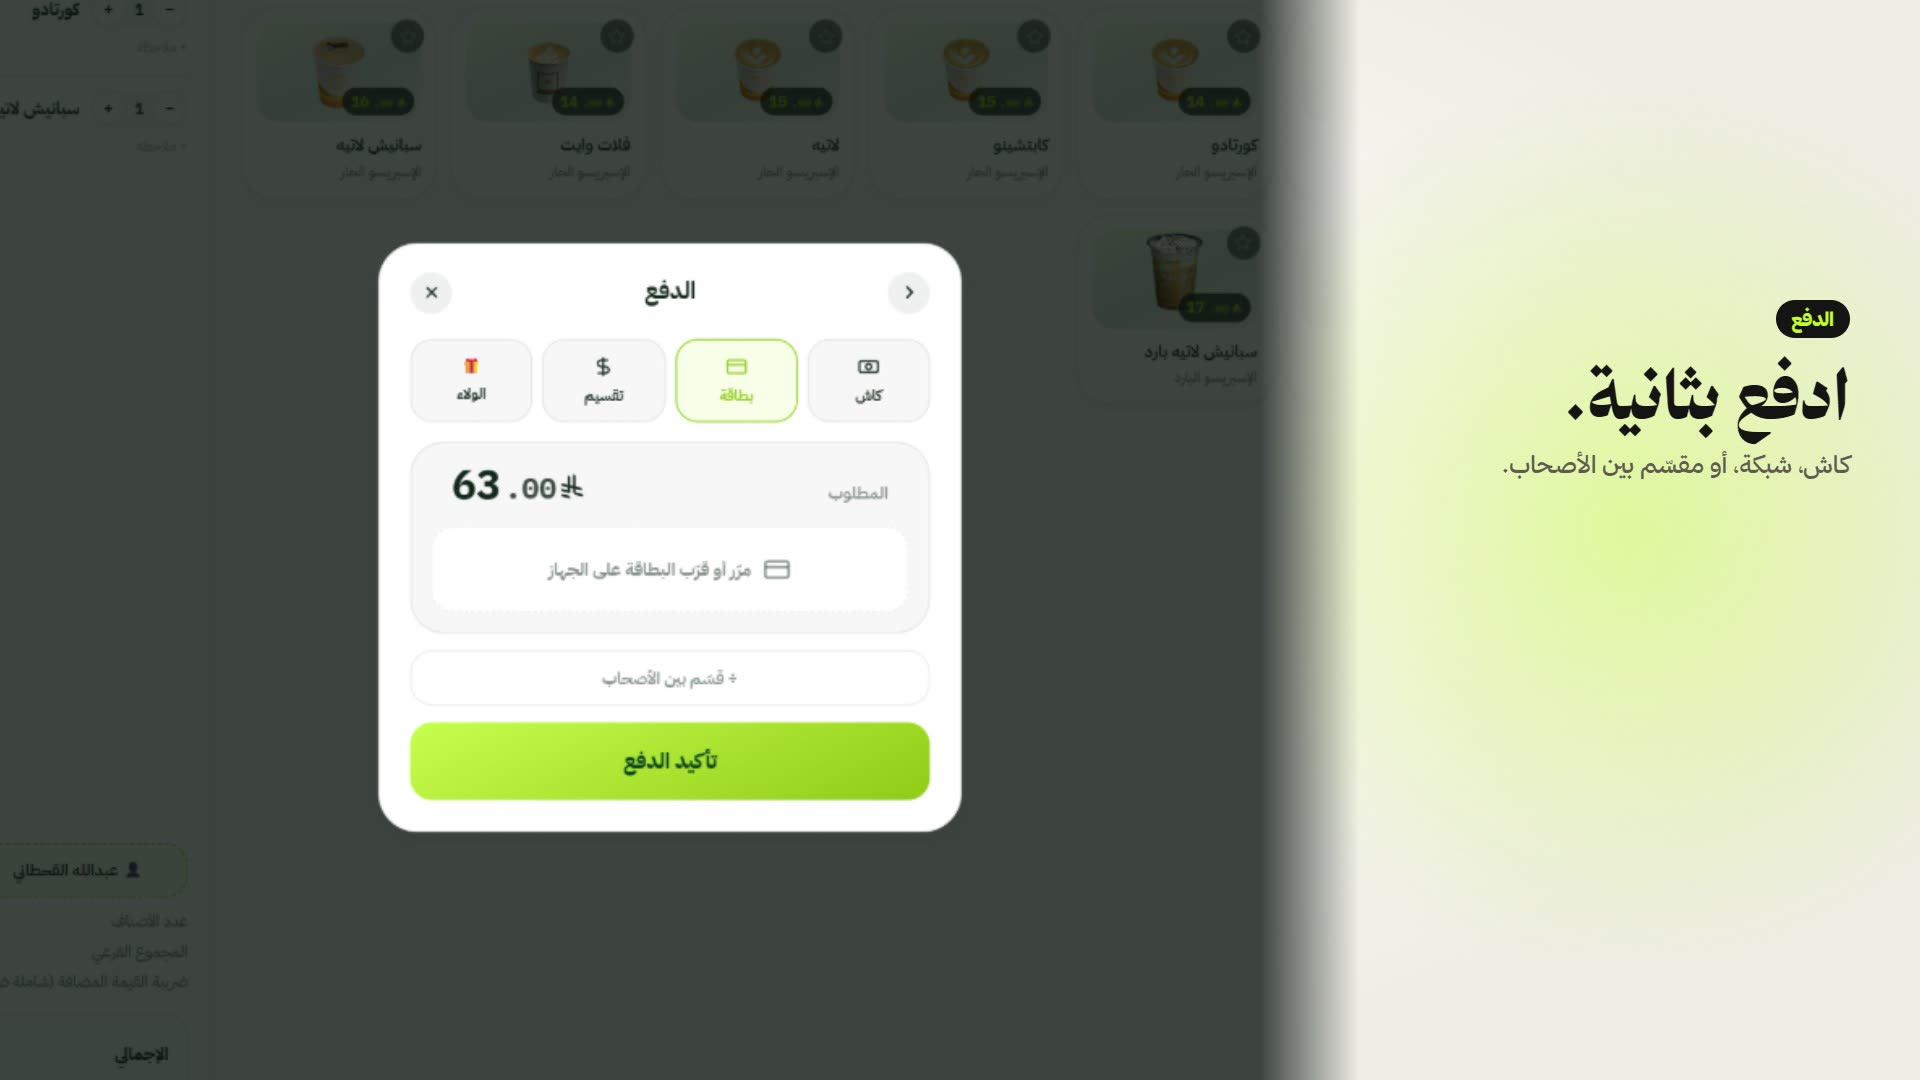
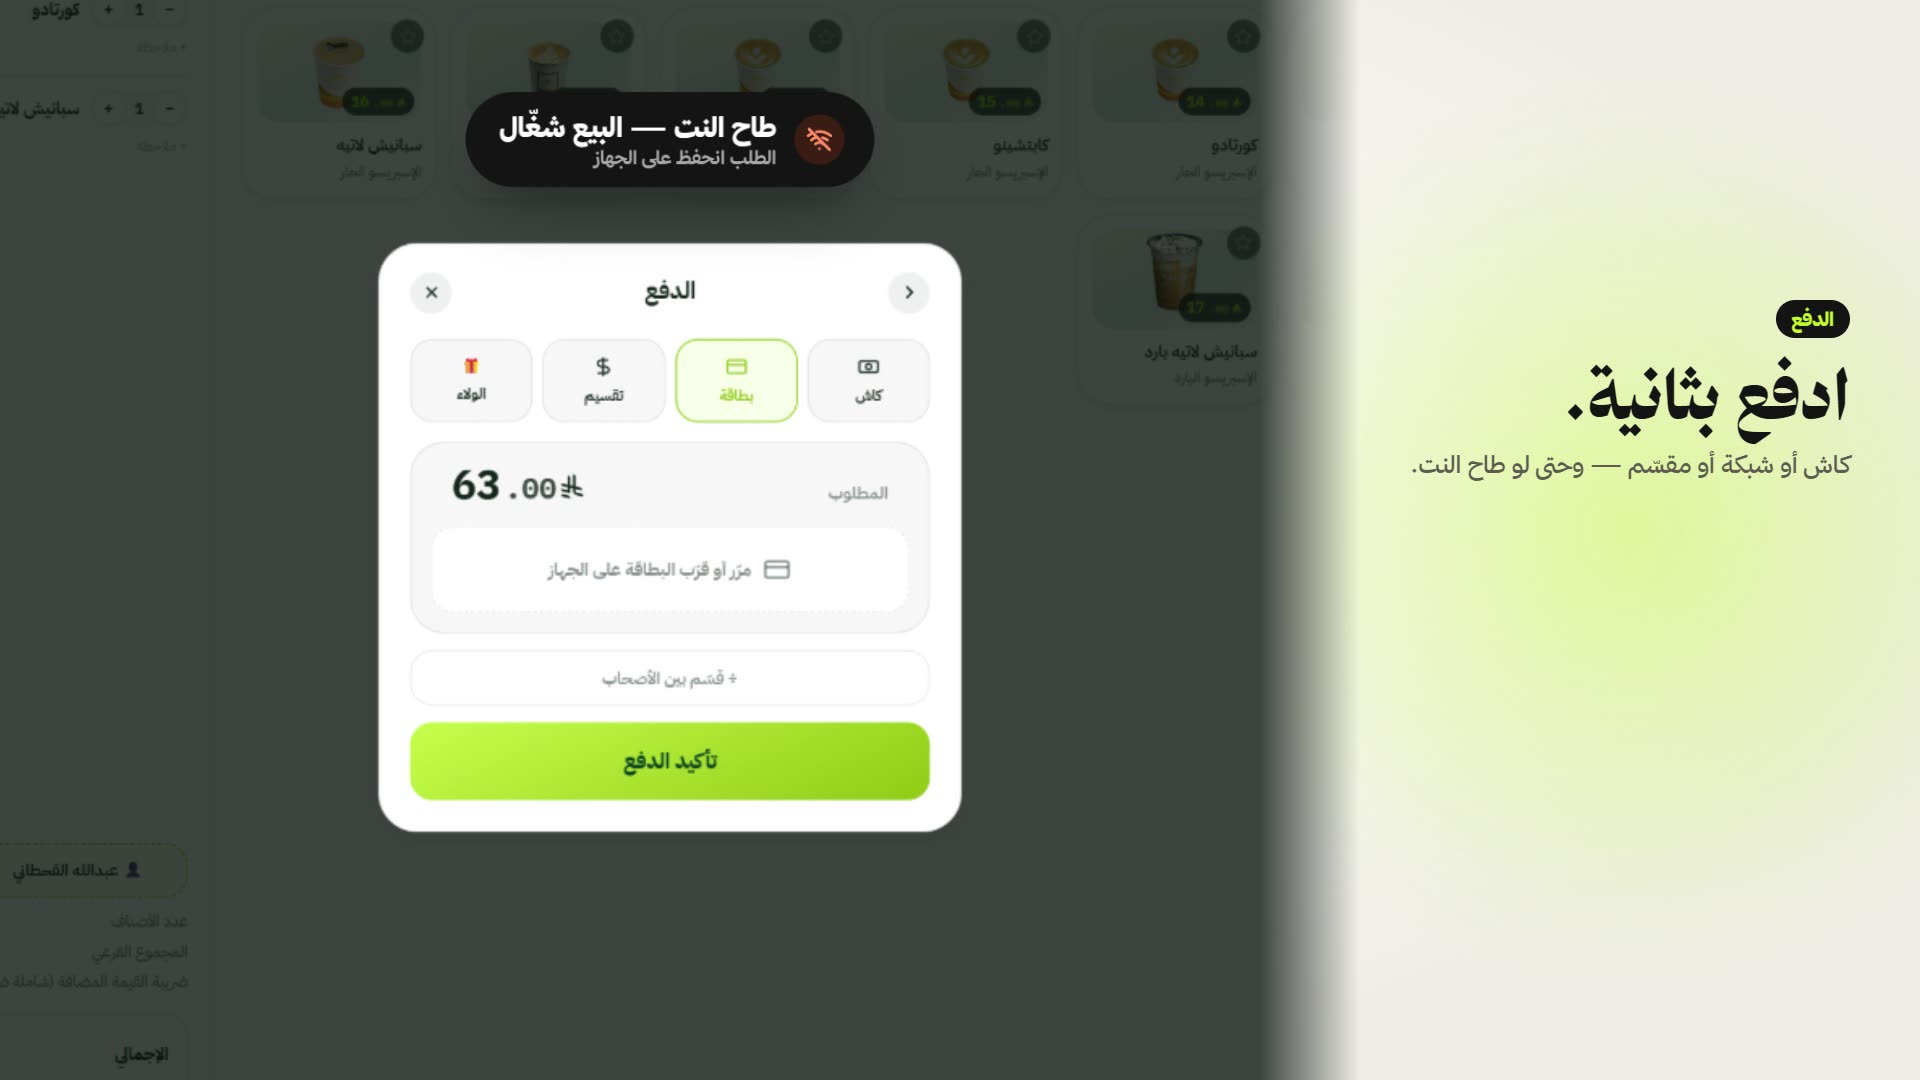
Landing film v2 (45s): offline sale + sync, stock deducted from recipes, online order reaching the kitchen
Online scene uses the real hbiah.rakeenapp.com menu (browse + add to cart only).
Videos at media.rakeenapp.com/landing/film/v2 (new key; v1 is cached immutable).

Changed region(s): [[0.2188, 0.0611, 0.4688, 0.1833], [0.75, 0.4278, 0.9375, 0.4583]]

diff --git a/app/landing/LandingPage.tsx b/app/landing/LandingPage.tsx
@@ -620,12 +620,12 @@ function SaleFilm({ lang }: { lang: Lang }) {
     <section className="film" aria-label={ar ? "فيلم: طلب واحد على ركين" : "Film: one order on Rakeen"}>
       <div className="wrap">
         <div className="film-head" data-in>
-          <span className="kicker">{ar ? "٣٤ ثانية" : "34 seconds"}</span>
+          <span className="kicker">{ar ? "٤٥ ثانية" : "45 seconds"}</span>
           <h2>{ar ? "شف طلب واحد يمشي في ركين." : "Watch one order move through Rakeen."}</h2>
           <p>
             {ar
-              ? "من ضغطة الكاشير، للولاء، للفاتورة والمطبخ، لجوال العميل وهو يرن، لنقاطه في محفظته — كله من الشاشات الحقيقية."
-              : "From the cashier tap to loyalty, receipt, kitchen, the customer's phone ringing and points landing in their wallet — all real screens."}
+              ? "من ضغطة الكاشير، للولاء، للدفع حتى لو طاح النت، للفاتورة والمطبخ، لجوال العميل وهو يرن، لنقاطه في محفظته، للمخزون اللي ينخصم لحاله، لطلب الأونلاين — كله من الشاشات الحقيقية."
+              : "From the cashier tap to loyalty, paying even offline, receipt, kitchen, the customer's phone ringing, points in their wallet, stock deducting itself and an online order — all real screens."}
           </p>
         </div>
         <div className={"film-frame" + (cut === "port" ? " port" : "")} data-in>
@@ -634,7 +634,7 @@ function SaleFilm({ lang }: { lang: Lang }) {
               key={cut}
               ref={ref}
               className="film-v"
-              src={`https://media.rakeenapp.com/landing/film/v1/sale-${cut}.mp4`}
+              src={`https://media.rakeenapp.com/landing/film/v2/sale-${cut}.mp4`}
               poster={`/landing/film/sale-${cut}.jpg`}
               muted
               loop
